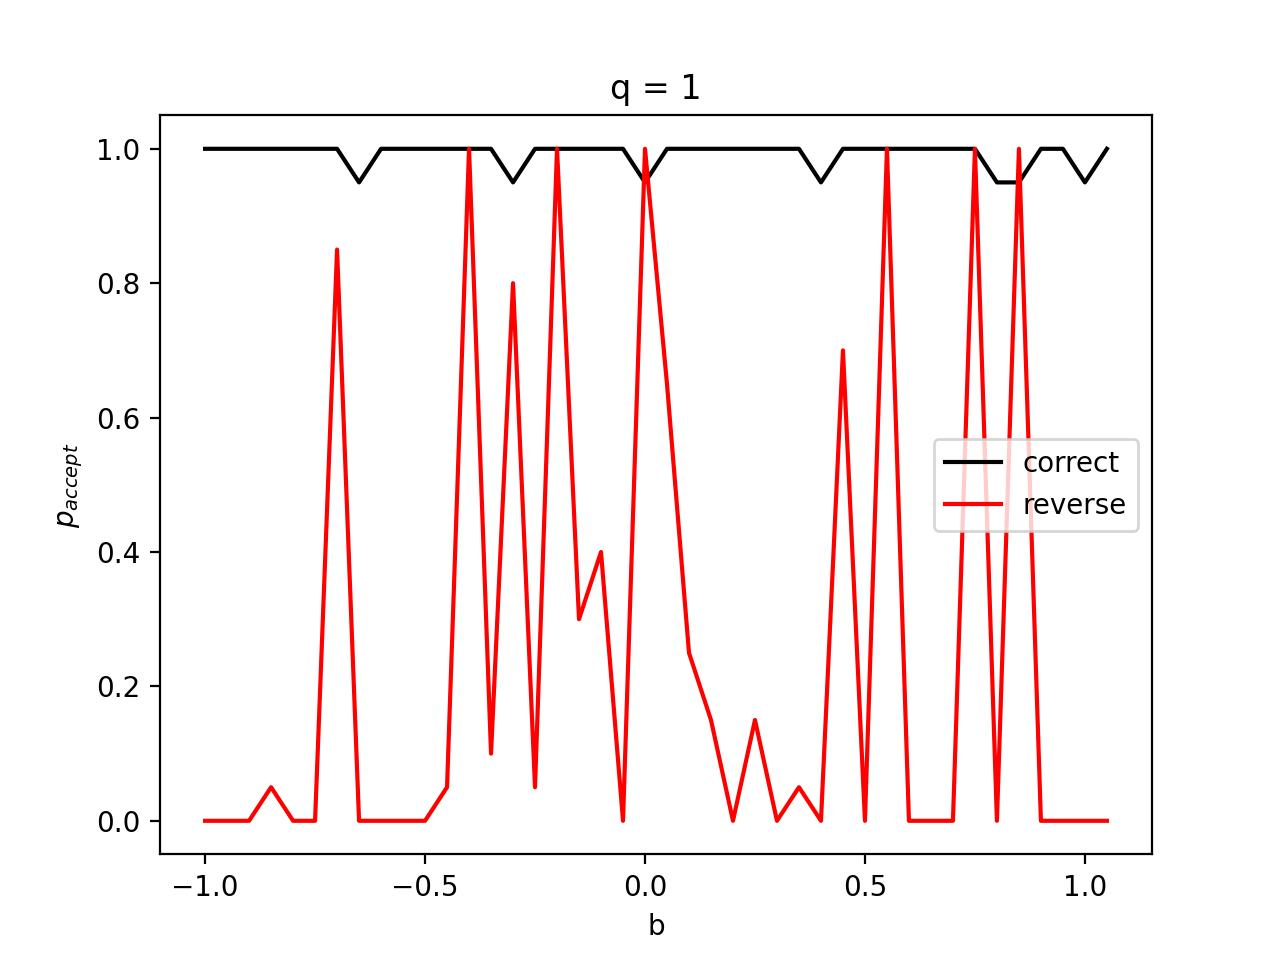
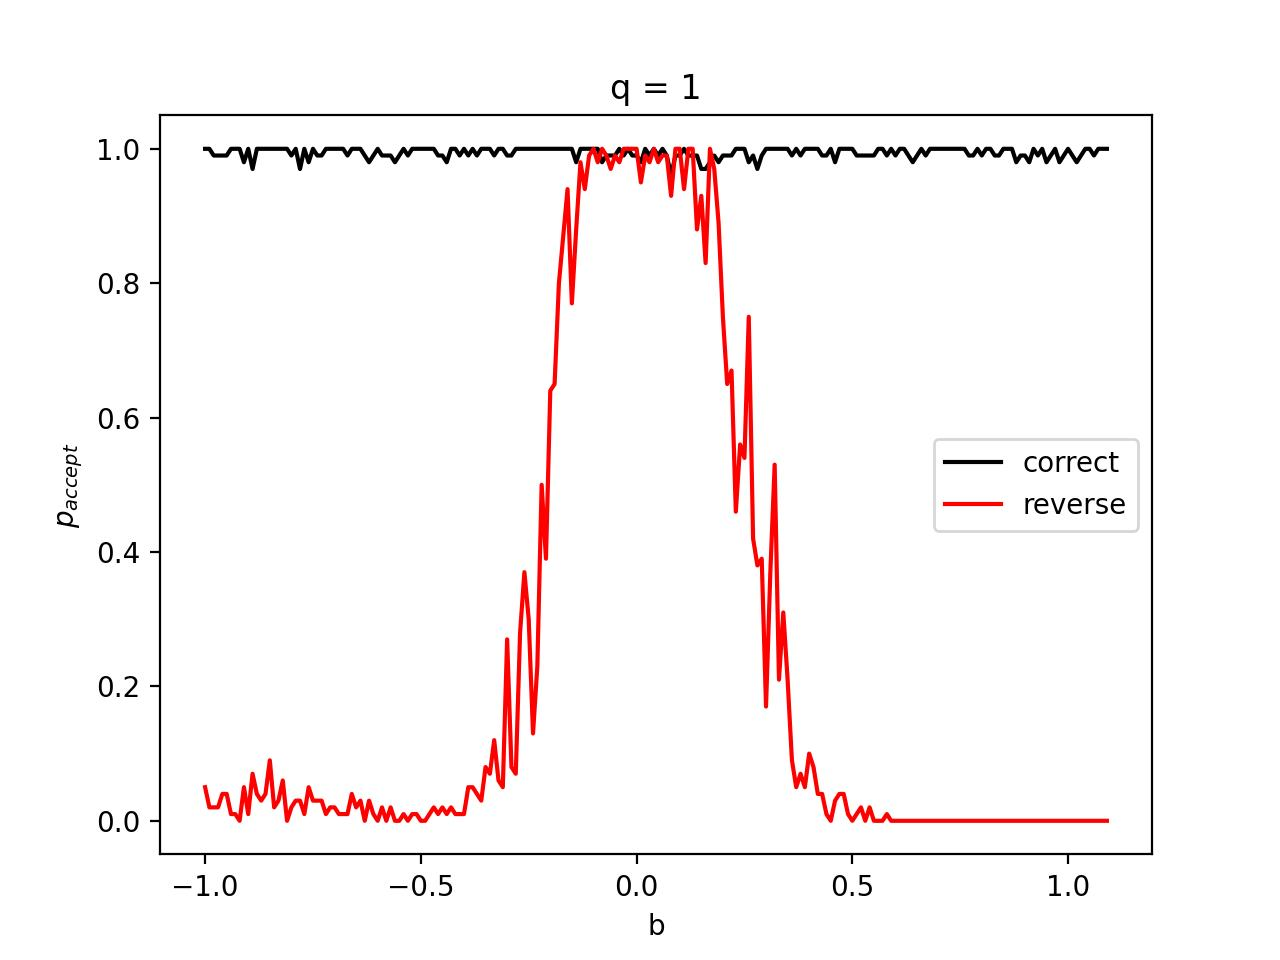
added KCI for ANM algorithm, having reproduced the simulation test in paper

diff --git a/ANM/anm_repetition_multithreading.py b/ANM/anm_repetition_multithreading.py
@@ -5,7 +5,7 @@
 # @Time:         18:58  2023/11/2
 import warnings
 
-# warnings.filterwarnings("ignore")
+warnings.filterwarnings("ignore")
 from copy import deepcopy
 from tqdm import tqdm
 import threading
@@ -18,7 +18,9 @@ from sklearn.gaussian_process.kernels import RBF, WhiteKernel
 from sklearn.model_selection import train_test_split
 from Experiments.HSIC import hsic_gam
 from concurrent.futures import ThreadPoolExecutor
+from causallearn.utils.KCI.KCI import KCI_UInd
 
+kci = KCI_UInd()
 # create datas
 def create_simulated_data(m=300, b=1, q=1, is_visualized=True):
     def f(x):
@@ -91,7 +93,7 @@ def get_an_estimate_model(data, is_split=False, to_ward="forward", is_visualized
     return n_hat, X
 
 
-def ANM(data_, is_split=True, is_visualized=True):
+def ANM(data_, is_split=True, is_visualized=True, is_KCI=True):
     """
     this function is used as a model(ANM) to discovery the causality between x and y
     1, test whether x and y are statistically independent if not
@@ -100,6 +102,7 @@ def ANM(data_, is_split=True, is_visualized=True):
     4, test whether n_hat is dependent with x if so, accept; if not
     5, test whether the reverse model fits the data
 
+    KCI 的 p_value 越大表明没有足够证据拒绝原假设，原假设是独立 （接受独立）
     situation:
     1, independent
     2, both direction (x independent with n and so is y)
@@ -113,7 +116,12 @@ def ANM(data_, is_split=True, is_visualized=True):
     # print("data_shape, ", data.shape)
     # print("data1_shape, ", data1.shape)
     # 1, test whether x and y are statistically independent (kernel methods) if not
-    is_independent = hsic_gam(data[:, 1:], data[:, 1:])
+    if is_KCI:
+        p, _ = kci.compute_pvalue(data[:, 1:], data[:, 1:])
+        # print(p)
+        is_independent = True if p >= 0.02 else False
+    else:
+        is_independent = hsic_gam(data[:, 1:], data[:, 1:])
     if is_independent:
         result = "X is independent with Y"
         # print(result)
@@ -125,12 +133,20 @@ def ANM(data_, is_split=True, is_visualized=True):
     n_hat2, Y = get_an_estimate_model(data1, is_split, "backward", is_visualized=is_visualized)
 
     # 3, test whether n_hat is independent with x if so, accept; if not
-    is_independent1 = hsic_gam(X, n_hat1)
+    if is_KCI:
+        p, _ = kci.compute_pvalue(X, n_hat1)
+        is_independent1 = True if p >= 0.02 else False
+    else:
+        is_independent1 = hsic_gam(X, n_hat1)
     if is_independent1:
         result += " forward: | X -> Y |"
 
     # 4, test whether the reverse model fits the data
-    is_independent2 = hsic_gam(Y, n_hat2)
+    if is_KCI:
+        p, _ = kci.compute_pvalue(Y, n_hat2)
+        is_independent2 = True if p >= 0.02 else False
+    else:
+        is_independent2 = hsic_gam(Y, n_hat2)
     if is_independent2:
         result += " backward: | X <- Y |"
     # print(result)
@@ -151,14 +167,14 @@ def multi_repetition(times, repetition_num, b, q, is_visualized, forward, backwa
     proportion.append([q, round(forward/(repetition_num), 3), round(backward/(repetition_num), 3)])
 
 
-repetition_num = 20
+repetition_num = 100
+is_visualized = False
 
 # The first panel
-is_visualized = False
 b = 0
-nums = np.arange(0.5, 2.001, 0.1)  # q
+nums = np.arange(0.5, 2.001, 0.01)  # q
 proportion = []
-with ThreadPoolExecutor(max_workers=20) as executor:
+with ThreadPoolExecutor(max_workers=30) as executor:
     start = time.time()
     for q in nums:
         q = round(q, 3)
@@ -178,14 +194,14 @@ plt.xlabel('q')
 plt.ylabel('$p_{accept}$')
 plt.title(f'b = 0')
 plt.legend()
-plt.savefig('b0_q05-20.jpg', dpi=200)
+plt.savefig(f'b0_q05-20_{repetition_num}times_KCI.jpg', dpi=200)
 plt.show()
 
 # The second panel
 q = 1
-nums = np.arange(-1, 1.1, 0.1)
+nums = np.arange(-1, 1.1, 0.01)
 proportion = []
-with ThreadPoolExecutor(max_workers=20) as executor:
+with ThreadPoolExecutor(max_workers=30) as executor:
     for b in nums:
         b = round(b, 3)
         times = 1
@@ -206,6 +222,6 @@ plt.ylabel('$p_{accept}$')
 plt.title(f'q = 1')
 plt.legend()
 # plt.show()
-plt.savefig('q1_bn1-1.jpg', dpi=200)
+plt.savefig(f'q1_bn1-1_{repetition_num}times_KCI.jpg', dpi=200)
 plt.show()
 

diff --git a/causal-learn-trails/anm-expriments.py b/causal-learn-trails/anm-expriments.py
@@ -5,7 +5,7 @@
 # @Time:         11:20  2023/11/14
 
 import warnings
-# warnings.filterwarnings("ignore")
+warnings.filterwarnings("ignore")
 
 from copy import deepcopy
 from tqdm import tqdm
@@ -65,41 +65,40 @@ def multi_repetition(times, repetition_num, b, q, is_visualized, forward, backwa
 
 # The first panel
 is_visualized = False
-b = 0
-nums = np.arange(0.5, 2.001, 0.05)  # q
-proportion = []
-repetition_num = 20
-with ThreadPoolExecutor(max_workers=20) as executor:
-    start = time.time()
-    for q in nums:
-        q = round(q, 3)
-        times = 1
-        forward = 0
-        backward = 0
-        future = executor.submit(multi_repetition, times, repetition_num, b, q, is_visualized, forward, backward)
-    with tqdm(total=None, desc='Progress', unit='iteration') as pbar:
-        while not future.done():
-            pbar.update(1)
-            time.sleep(0.1)
-
-print(f">> 执行用时: {time.time()-start}s")
-plt.figure()
-proportion.sort(key=lambda x: x[0])
-plt.plot(nums, np.array(proportion)[:, 1:2], 'k', label='correct')
-plt.plot(nums, np.array(proportion)[:, 2:], 'r', label='reverse')
-plt.xlabel('q')
-plt.ylabel('$p_{accept}$')
-plt.title(f'b = 0')
-plt.legend()
-plt.savefig('b0_q05-20.jpg', dpi=200)
-plt.show()
+# b = 0
+# nums = np.arange(0.5, 2.001, 0.01)  # q
+# proportion = []
+repetition_num = 100
+# with ThreadPoolExecutor(max_workers=20) as executor:
+#     start = time.time()
+#     for q in nums:
+#         q = round(q, 3)
+#         times = 1
+#         forward = 0
+#         backward = 0
+#         future = executor.submit(multi_repetition, times, repetition_num, b, q, is_visualized, forward, backward)
+#     with tqdm(total=None, desc='Progress', unit='iteration') as pbar:
+#         while not future.done():
+#             pbar.update(1)
+#             time.sleep(0.1)
+#
+# print(f">> 执行用时: {time.time()-start}s")
+# plt.figure()
+# proportion.sort(key=lambda x: x[0])
+# plt.plot(nums, np.array(proportion)[:, 1:2], 'k', label='correct')
+# plt.plot(nums, np.array(proportion)[:, 2:], 'r', label='reverse')
+# plt.xlabel('q')
+# plt.ylabel('$p_{accept}$')
+# plt.title(f'b = 0')
+# plt.legend()
+# plt.savefig('b0_q05-20.jpg', dpi=200)
+# plt.show()
 
 #
 is_visualized = False
 q = 1
-nums = np.arange(-1, 1.1, 0.05)
+nums = np.arange(-1, 1.1, 0.01)
 proportion = []
-repetition_num = 20
 with ThreadPoolExecutor(max_workers=20) as executor:
     for b in nums:
         b = round(b, 3)
